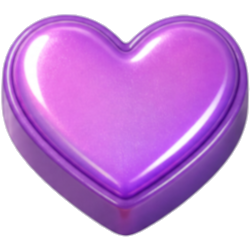
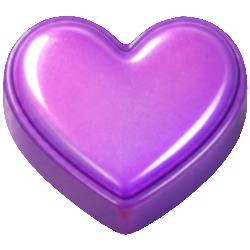
fix: remove white fringe from bumper sprites via alpha erosion
All four bumper PNGs (star, heart, moon, flower) had semi-transparent
white border pixels from anti-aliasing against a white background during
rendering. scripts/clean-sprites.js uses Sharp to defringe (un-premultiply
white compositing) then erode the alpha channel by 2px, eliminating the
artifact. Sprites are otherwise visually identical.

diff --git a/scripts/clean-sprites.js b/scripts/clean-sprites.js
@@ -1,0 +1,74 @@
+// scripts/clean-sprites.js — removes white fringe from bumper sprites via alpha erosion
+import sharp from 'sharp';
+import path from 'path';
+import { fileURLToPath } from 'url';
+
+const __dirname = path.dirname(fileURLToPath(import.meta.url));
+const imagesDir = path.join(__dirname, '../public/assets/images');
+const sprites = ['star.png', 'heart.png', 'moon.png', 'flower.png'];
+
+// Erode alpha channel by radius pixels (minimum-filter over neighborhood).
+// This shrinks the opaque region, cutting the semi-transparent white fringe.
+function erodeAlpha(data, width, height, channels, radius) {
+  const output = Buffer.from(data);
+  for (let y = 0; y < height; y++) {
+    for (let x = 0; x < width; x++) {
+      const idx = (y * width + x) * channels;
+      let minAlpha = data[idx + 3];
+      for (let dy = -radius; dy <= radius; dy++) {
+        for (let dx = -radius; dx <= radius; dx++) {
+          const nx = x + dx;
+          const ny = y + dy;
+          if (nx >= 0 && nx < width && ny >= 0 && ny < height) {
+            minAlpha = Math.min(minAlpha, data[(ny * width + nx) * channels + 3]);
+          }
+        }
+      }
+      output[idx + 3] = minAlpha;
+    }
+  }
+  return output;
+}
+
+// For semi-transparent edge pixels, remove white color bias introduced by
+// anti-aliasing against a white background. Formula: un-premultiply from white.
+function defringe(data, width, height, channels) {
+  const output = Buffer.from(data);
+  for (let i = 0; i < data.length; i += channels) {
+    const a = data[i + 3];
+    if (a === 0 || a === 255) continue;
+    const af = a / 255;
+    for (let c = 0; c < 3; c++) {
+      // Reverse: composited = af * color + (1-af) * 255
+      // color = (composited - (1-af)*255) / af
+      const raw = (data[i + c] - (1 - af) * 255) / af;
+      output[i + c] = Math.max(0, Math.min(255, Math.round(raw)));
+    }
+  }
+  return output;
+}
+
+async function processSprite(filename) {
+  const inputPath = path.join(imagesDir, filename);
+
+  const { data, info } = await sharp(inputPath)
+    .ensureAlpha()
+    .raw()
+    .toBuffer({ resolveWithObject: true });
+
+  const { width, height, channels } = info;
+
+  let processed = defringe(data, width, height, channels);
+  processed = erodeAlpha(processed, width, height, channels, 2);
+
+  await sharp(processed, { raw: { width, height, channels } })
+    .png()
+    .toFile(inputPath);
+
+  console.log(`Cleaned: ${filename}`);
+}
+
+for (const sprite of sprites) {
+  await processSprite(sprite);
+}
+console.log('Done.');
